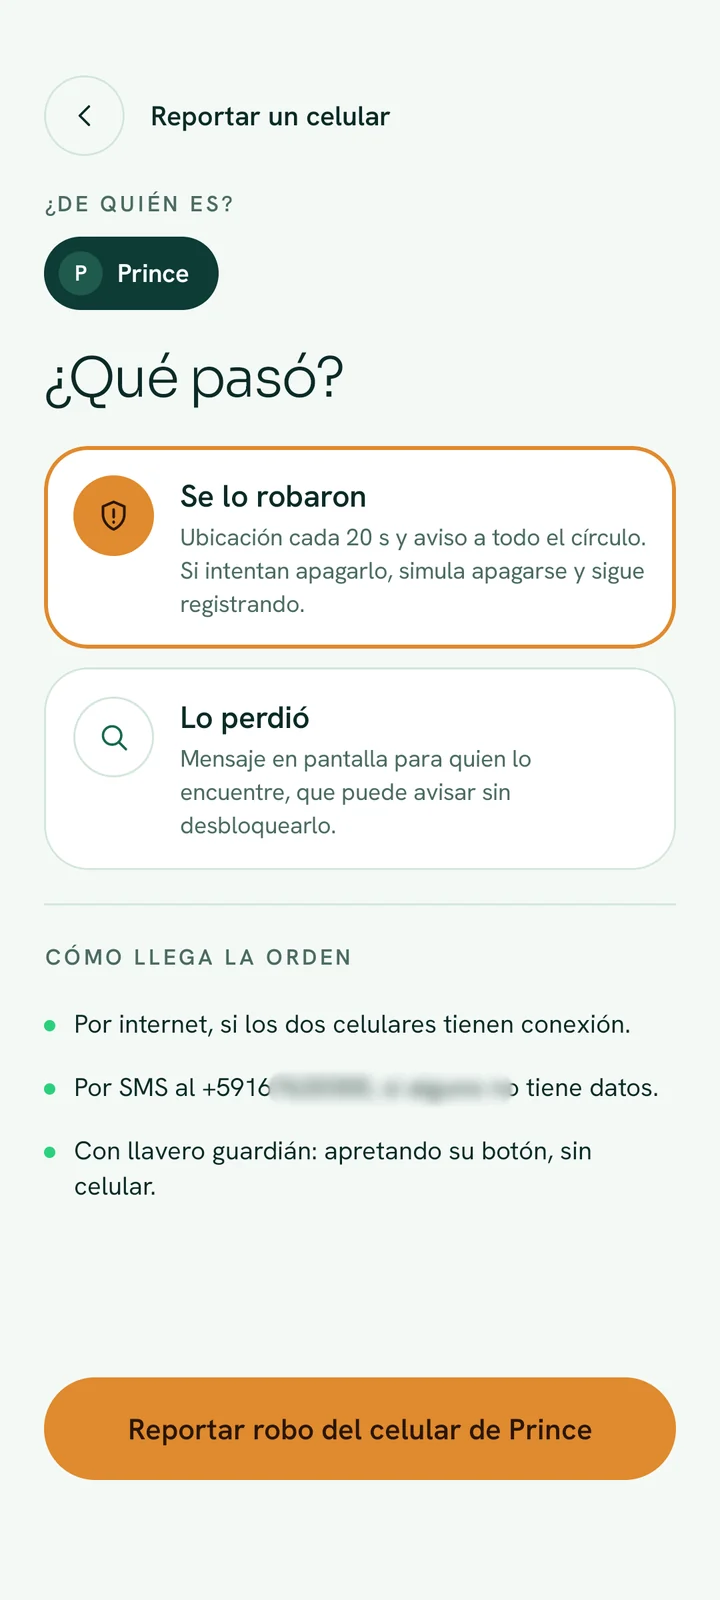
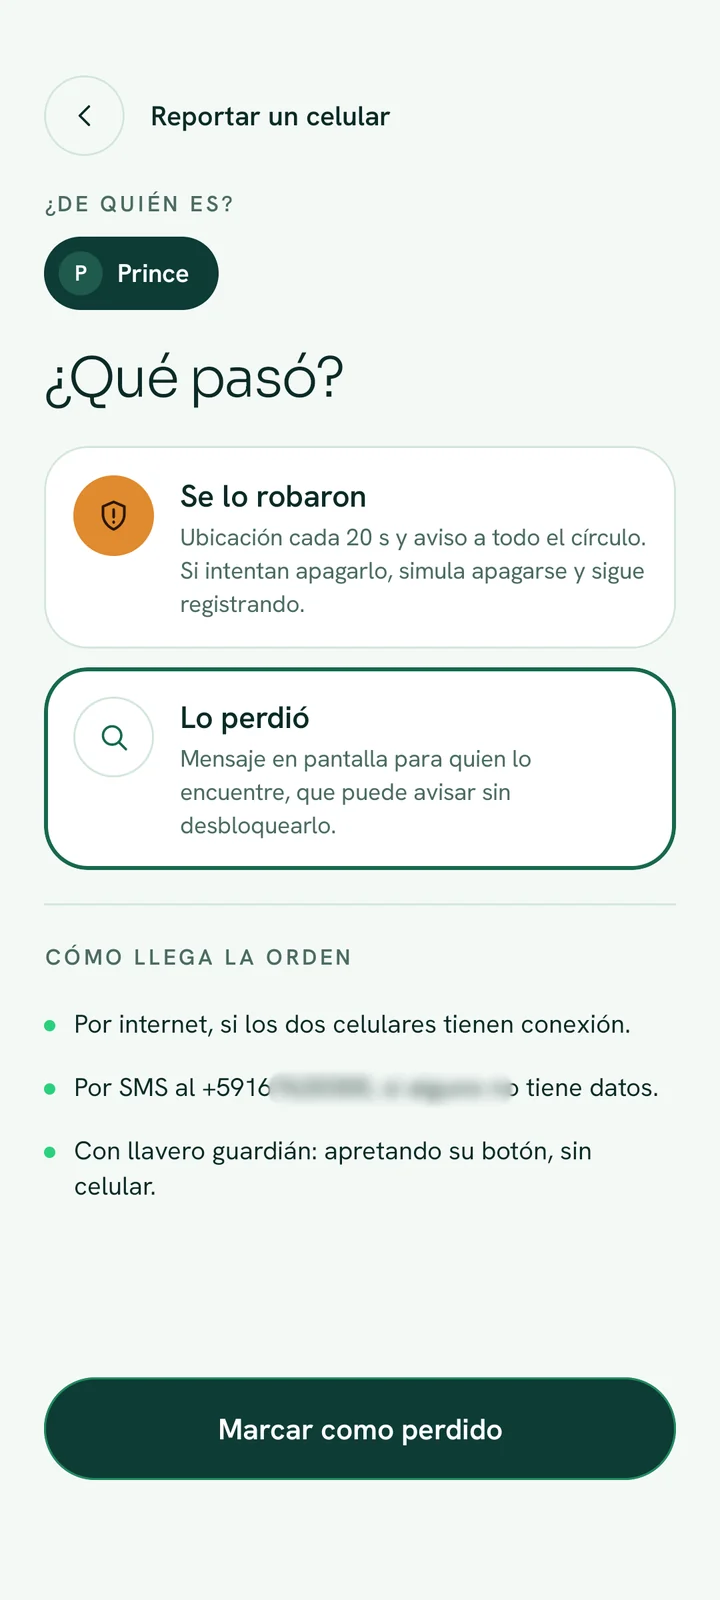
La señal: capturas del reporte como perdido y de la pantalla que ve quien lo encuentra

diff --git a/recompensas/web/src/landing/senal/capturas/LEEME.md b/recompensas/web/src/landing/senal/capturas/LEEME.md
@@ -9,14 +9,15 @@ una pantalla provisional con su nombre.
 | --- | --- | --- |
 | `inicio` | El tuyo | 1 · Tu celular entra a la red |
 | `guardian` | El tuyo | 2 · Si se aleja, lo sabes (vincular el guardián) |
-| `perdido` | El tuyo | 3 y 4 · Reportado como robado |
-| `reportar` | Tu círculo | 1 a 4 · Reportar el celular de un miembro |
+| `perdido` | El tuyo | 3 a 5 · Pantalla de celular perdido (lo que ve quien lo encuentra) |
+| `reportar` | Tu círculo | 1 a 4 · Reportar el celular de un miembro como perdido |
 | `nodo` | Un celular cercano | 1 a 6 · Buscar de cerca: lo detecta por Bluetooth |
 | `seguimiento` | Tu círculo | 5 · Mapa con la última ubicación |
 | `recompensa` | Tu círculo | 6 · Confirmar la devolución y pagar (falta) |
+| `devuelto` | El tuyo | 6 · La recompensa en la pantalla del dueño (falta) |
 
 Si falta una captura a mitad del recorrido, ese celular sigue mostrando la anterior.
 
 Las capturas actuales salen de dos celulares de prueba (adb `screencap`), sin la barra de
 estado ni la de navegación, reducidas a 720 × 1600 en WebP. Los nombres de calle del mapa
-y el número de SMS están desenfocados.
+y los números de teléfono están desenfocados.
